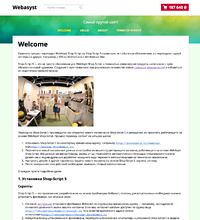
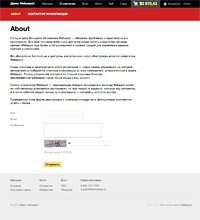
site theme Default 3.0

diff --git a/wa-apps/site/themes/default/default.css b/wa-apps/site/themes/default/default.css
@@ -103,7 +103,7 @@ input:-ms-input-placeholder { color: #bbb; }
 .welcome { text-align: center; background: url('img/welcome.png') no-repeat; background-position: top center; padding-top: 300px; background-size: 256px 256px; margin-bottom: 30px; }
 .welcome h1 { font-weight: normal; font-size: 2em; }
 
-.staff { background: #eeb; padding: 1px 4px !important; color: #345; font-size: 0.9em; border: 1px solid rgba(0,0,0,0.1); border-radius: 3px; }
+.staff { background: #eeb; padding: 1px 4px !important; color: #345; font-size: 0.9em; border: 1px solid rgba(0,0,0,0.1); border-radius: 3px; white-space: nowrap; }
 
 /* Buttons
 ---------- */
@@ -141,20 +141,9 @@ ul.menu-v.bottom-padded { margin-bottom: 20px; }
 ul.menu-v li .count { float: right; color: #aaa; }
 ul.menu-v li .count i.icon16 { margin: 0 -5px; }
 
-/*
 ul.menu-h { margin: 0; padding: 0; }
-ul.menu-h.bottom-padded { margin-bottom: 15px; }
 ul.menu-h li { list-style: none; display: inline-block; padding: 0 10px 0 0; line-height: 1.3em; display:block\9; float:left\9; }
 ul.menu-h li a { display: inline-block; padding: 13px 16px 13px 16px; display:block\9; float:left\9; text-decoration: none; }
-ul.menu-h li.collapsible a { padding: 13px 30px 13px 16px; }
-ul.menu-h li a img.icon16 { position: relative; top: 3px; left: -3px; }
-ul.menu-h li a i.icon16 { margin-top: -0.1em; }
-ul.menu-h li.selected a { background: transparent; }
-ul.menu-h li.bold a { font-weight: bold; }
-ul.menu-h.compact { margin-bottom: 16px; }
-ul.menu-h.compact li { padding-right: 5px; }
-ul.menu-h.compact li a { padding: 0; }
-*/
 
 ul.tree { list-style: none; padding-left: 0; }
 ul.tree li { border: none; }
@@ -164,6 +153,7 @@ ul.tree ul { padding-left: 20px; list-style: none; }
 ul.tree ul a { padding: 3px 6px; font-size: 90%; }
 
 .paging-nav { text-align: center; }
+.paging-nav ul li { display: inline-block; list-style: none; margin-right: 10px; }
 .paging-nav ul li a { padding: 8px 10px; }
 .paging-nav ul li.selected a { background: #eee; }
 
@@ -248,7 +238,7 @@ input.error, textarea.error { border: 2px solid red; }
 
 table { border-collapse: collapse; border-spacing: 0; }
 table th { color: #aaa; padding: 0px 10px 7px; }
-table td { padding: 10px; border: 1px solid rgba(0,0,0,0.15); }
+table td { padding: 10px; border: 1px solid rgba(0,0,0,0.1); }
 table.not-bordered td { border: none; }
 
 table.lined { margin-top: 25px; width: 100%; border-spacing:0; border-collapse:collapse; }
@@ -287,26 +277,26 @@ header.globalheader { background: #c22; position: relative; }
 header a { text-decoration: none; }
 
 header #globalnav { background: #000; }
-header h2 { float: left; padding: 13px 15px; margin: 0 20px 0 -15px; font-size: 1.1em; color: #777; }
+header h2 { float: left; padding: 11px 15px; margin: 0 20px 0 -15px; font-size: 1.2em; }
 header h2 a { color: #eee !important; }
 header h2 a:hover { color: #eea !important; }
 
 header .apps { float: left; padding: 0; margin: 0 0 0 -15px; }
 header .apps li { float: left; list-style: none; }
-header .apps li a { display: block; padding: 13px 18px; margin-right: 0px; color: #999; font-size: 1.1em; }
+header .apps li a { display: block; padding: 13px 18px 12px; margin-right: 0px; color: #999; font-size: 1.1em; }
 header .apps li a:hover { color: #eea; }
 header .apps li.selected a { color: #fff; background: #000; }
 
-header .auth { float: right; margin-bottom: 0; margin-top: 13px; padding-left: 10px; }
+header .auth { float: right; margin-bottom: 0; margin-top: 14px; padding-left: 10px; }
 header .auth li { list-style: none; float: left; }
 header .auth li a { font-style: italic; font-size: 0.9em; padding: 5px 8px; color: #777; }
 header .auth li a:hover { color: #eea !important; }
 header .auth li a:visited { color: #777; }
 
 header .cart { float: right; }
-header .cart a { padding: 13px 16px 13px 13px; display: block; background: #fb0; color: #fff; font-size: 1.5em; }
-header .cart a strong { color: #fff; }
-header .cart a:hover { background: #fc3 !important; }
+header .cart a { padding: 13px 16px 12px 13px; display: block; background: #444; color: #fff; font-size: 1.5em; }
+header .cart a strong { color: #ff7; }
+header .cart a:hover { background: #555 !important; }
 header .cart .cart-just-added { display: none; padding: 9px 18px; font-size: 0.9em; }
 header .cart a.cart-to-checkout { display: none !important; text-align: center; font-weight: bold; padding: 11px 18px; color: #006bd8; font-size: 1.1em; }
 header .cart a.cart-to-checkout:hover { background: #fff !important; }
@@ -320,12 +310,27 @@ header .cart.empty a strong { color: #aaa; }
 header .cart.empty i.cart-icon { background-position: -192px -50px; }
 
 header .cart.fixed { position: fixed; top: 0; right: 80px; min-width: 220px; max-width: 320px; z-index: 999; padding: 0; }
-header .cart.fixed a { text-align: center; border-top: none; }
+header .cart.fixed a { text-align: center; border-top: none; background: #c22; }
+header .cart.fixed a:hover { background: #d33 !important; }
 header .cart.fixed .cart-just-added { display: block; background: #fafaf1; }
 header .cart.fixed a.cart-to-checkout { display: block; border: none; background: #fff; box-shadow: 0 5px 10px -6px rgba(0, 0, 0, 0.2); }
 header .cart.fixed a.cart-to-checkout:hover { color: red !important; }
 
 header #mobile-nav-toggle { /* mobile only */ display: none; background: url('img/mobile-nav-toggle.png') no-repeat center center; border: none; padding: 5px; background-size: 37px 31px; width: 37px; height: 31px; }
+
+header #globalnav.light { background: #fff; }
+header #globalnav.light h2 a { color: #000 !important; }
+header #globalnav.light h2 a:hover { color: red !important; }
+header #globalnav.light .apps li a { color: #888; }
+header #globalnav.light .apps li a:hover { color: red !important; }
+header #globalnav.light .apps li.selected a { color: #444; background: transparent; }
+header #globalnav.light .auth li a:hover { color: red !important; }
+header #globalnav.light .cart a { background: #e84; }
+header #globalnav.light .cart a:hover { background: #f94 !important; }
+header #globalnav.light .cart a strong { color: #fff; }
+header #globalnav.light .cart.empty a { background: #eee !important; }
+header #globalnav.light .cart.empty a:hover { background: #e7e7e7 !important; }
+header #globalnav.light .cart.empty a strong { color: #aaa !important; }
 
 /* Header: app navigation
 ------------------------- */
@@ -349,11 +354,11 @@ header ul.flyout-nav li .flyout a { color: inherit; text-transform: none; }
 header ul.flyout-nav li .flyout a:hover { color: red !important; }
 header ul.flyout-nav li .flyout ul.menu-v li { border: none; vertical-align: top; text-align: left; margin: 0 20px 20px 0; }
 header ul.flyout-nav li .flyout ul.menu-v li.collapsible { background: none; }
-header ul.flyout-nav li .flyout ul.menu-v li a { font-weight: bold; padding-left: 0; font-size: 1em; }
+header ul.flyout-nav li .flyout ul.menu-v li a { font-weight: bold; padding-left: 0; font-size: 1.1em; }
 header ul.flyout-nav li .flyout ul.menu-v li ul.menu-v li { display: block; margin: 0; font-size: 0.9em; }
 header ul.flyout-nav li .flyout ul.menu-v li ul.menu-v li a { font-weight: normal; }
 header ul.flyout-nav li .flyout ul.menu-v li ul.menu-v li ul { display: none; }
-header ul.flyout-nav li .flyout .departments ul.menu-v li { width: 200px; }
+header ul.flyout-nav li .flyout .departments ul.menu-v li { width: 173px; }
 header ul.flyout-nav li .flyout .tags { font-size: 120%; }
 header ul.flyout-nav li .flyout ul.menu-v.brands { text-align: center; }
 header ul.flyout-nav li .flyout ul.menu-v.brands a { font-size: 1.2em; font-weight: normal; }
@@ -390,7 +395,8 @@ footer a:hover { color: red !important; }
 .globalfooter.submenu-is-shown { position: relative; }
 .globalfooter.submenu-is-shown:after { display: block; content: ""; position: absolute; top: 0; left: 0; width: 100%; height: 100%; background: rgba(0,0,0,.25); z-index: 99; }
 
-.footer-block { display: inline-block; margin-right: 40px; vertical-align: top; margin-bottom: 20px; overflow-x: hidden; display:block\9; float:left\9; }
+.footer-block { display: inline-block; margin-right: 40px; vertical-align: top; margin-bottom: 20px; overflow-x: hidden; display:block\9; float:left\9; max-width: 170px; }
+.footer-block.mailer-subscribe { max-width: 500px; }
 .footer-block a { display: block; padding: 1px 0; }
 .footer-block a.top { font-weight: bold; margin-bottom: 10px; color: #888; }
 

diff --git a/wa-apps/site/themes/default/index.html b/wa-apps/site/themes/default/index.html
@@ -35,7 +35,6 @@
     <script type="text/javascript" src="{$wa_static_url}wa-content/js/jquery/jquery-1.11.1.min.js" ></script>
     <script type="text/javascript" src="{$wa_static_url}wa-content/js/jquery/jquery-migrate-1.2.1.min.js"></script>
     <script type="text/javascript" src="{$wa_theme_url}default.js?v{$wa_theme_version}"></script>
-    <script type="text/javascript" src="{$wa_theme_url}waslidemenu/jquery.waslidemenu.min.js?v{$wa_theme_version}"></script>
 
     {$wa->js()} {* links active plugins JS *}
     
@@ -59,12 +58,12 @@
     
 </head>
 <body>
-    <header class="globalheader">
+    <header class="globalheader"{if $theme_settings.color_custom} style="background: {$theme_settings.color_custom}"{/if}>
     
         {if count($wa->apps())>0 || $wa->isAuthEnabled()}
         
             <!-- GLOBAL NAVIGATION -->
-            <div id="globalnav">
+            <div id="globalnav"{if $theme_settings.header_scheme|strstr:'white'} class="light"{/if}>
                 <div class="container">
                     
                     <h2>
@@ -80,7 +79,9 @@
                         <!-- core site sections (apps) -->
                         <ul class="apps">
                             {foreach $wa->apps() as $a}
-                                <li{if $a.url==$wa_app_url && !$wa->globals('isMyAccount')} class="selected"{/if}><a href="{$a.url}">{$a.name}</a></li>
+                                {if !($a.url == $wa_url && $a.name == $wa->accountName())}
+                                    <li{if $a.url==$wa_app_url && !$wa->globals('isMyAccount')} class="selected"{/if}><a href="{$a.url}">{$a.name}</a></li>
+                                {/if}
                             {/foreach}
                         </ul>
             
@@ -199,20 +200,18 @@
                     <a href="mailto:{$wa->shop->settings('email')}">{$wa->shop->settings('email')}</a>
                 {/if}
             </div>
-                  
-            <div class="footer-block">
-                {if $wa->mailer && $wa->getUrl('mailer/frontend/subscribe')}
-                    <div class="mailer-subscribe">
-                        <a href="#" class="top">[s`Follow us`]</a>
-                        <form action="{$wa->getUrl('mailer/frontend/subscribe')}" id="mailer-subscribe-form" target="mailer-subscribe-iframe">
-                            <input type="email" name="email" placeholder="your@email.here">
-                            <input type="submit" value="[s`Subscribe`]">
-                        </form>
-                        <iframe id="mailer-subscribe-iframe" name="mailer-subscribe-iframe" src="javascript:true" style="width:0;height:0;border:0px solid #666;float:right;background: #666;"></iframe>
-                        <p style="display:none" id="mailer-subscribe-thankyou"><i>[s`Thank you! We’ll keep you posted.`]</i></p>
-                    </div>
-                {/if}
+                
+            {if $wa->mailer && $wa->getUrl('mailer/frontend/subscribe')}  
+            <div class="footer-block mailer-subscribe">
+                <a href="#" class="top">[s`Follow us`]</a>
+                <form action="{$wa->getUrl('mailer/frontend/subscribe')}" id="mailer-subscribe-form" target="mailer-subscribe-iframe">
+                    <input type="email" name="email" placeholder="your@email.here">
+                    <input type="submit" value="[s`Subscribe`]">
+                </form>
+                <iframe id="mailer-subscribe-iframe" name="mailer-subscribe-iframe" src="javascript:true" style="width:0;height:0;border:0px solid #666;float:right;background: #666;"></iframe>
+                <p style="display:none" id="mailer-subscribe-thankyou"><i>[s`Thank you! We’ll keep you posted.`]</i></p>
             </div>
+            {/if}
             
             <div class="clear-both"></div>
             

diff --git a/wa-apps/site/themes/default/admin-sidebar.html b/wa-apps/site/themes/default/admin-sidebar.html
@@ -12,18 +12,18 @@
 {$plugin = $wa->param('plugin')}
 {$quick_links = []}
 {if empty($plugin)}
-    {if $app == 'shop' && $action == 'category'}
+    {if $app == 'shop' && $action == 'category' && !empty($category)}
         {$quick_links[] = [
             "name" => "[s`Edit`]",
             "href" => "{$wa_backend_url}shop/?action=products#/products/category_id={$category.id}"
         ]}
-    {elseif $app == 'shop' && $action == 'product'}
+    {elseif $app == 'shop' && $action == 'product' && !empty($product)}
         {$quick_links[] = [
             "name" => "[s`Edit`]",
             "href" => "{$wa_backend_url}shop/?action=products#/product/{$product.id}/edit/"
         ]}
 
-    {elseif $app == 'blog' && $action == 'post'}
+    {elseif $app == 'blog' && $action == 'post' && !empty($post)}
         {$quick_links[] = [
             "name" => "[s`Edit`]",
             "href" => "{$wa_backend_url}blog/?module=post&id={$post.id}&action=edit"
@@ -31,9 +31,9 @@
 
     {elseif $action == 'page'}
         {$href = false}
-        {if $app == 'shop'}
+        {if $app == 'shop' && !empty($page)}
             {$href = "{$wa_backend_url}{$app}/?action=storefronts#/pages/{$page.id}"}
-        {elseif $app == 'blog'}
+        {elseif $app == 'blog' && !empty($page)}
             {$href = "{$wa_backend_url}{$app}/?module=pages#/{$page.id}"}
         {/if}
         {if $href}
@@ -149,7 +149,7 @@
         padding: 0 7px;
         opacity: 0;
         overflow: hidden;
-        background: #444;
+        background: rgba(42,42,42,0.6);
         color: #999;
     }
     .s-live-setting-wrapper .s-live-setting-block .theme-settings-wrapper .group-wrapper .settings-list .set-item {

diff --git a/wa-apps/site/themes/default/default.js b/wa-apps/site/themes/default/default.js
@@ -171,20 +171,20 @@ $(document).ready(function() {
     // STICKY CART for non-mobile
     if ( !(MatchMedia("only screen and (max-width: 760px)")) ) {
         $(window).scroll(function(){
-           	if ( $(this).scrollTop() >= 110 && !$("#cart").hasClass( "fixed" ) && !$("#cart").hasClass( "empty" ) && !($(".cart-summary-page")).length ) {
+           	if ( $(this).scrollTop() >= 55 && !$("#cart").hasClass( "fixed" ) && !$("#cart").hasClass( "empty" ) && !($(".cart-summary-page")).length ) {
            	    $("#cart").hide();
            	    
            	    $("#cart").addClass( "fixed" );       	    
            	    if ($('#cart-flyer').length)
            	    {
-           	        var _width = $('#cart-flyer').width()+50;
-           	        var _offset_right = $(window).width() - $('#cart-flyer').offset().left - _width;
+           	        var _width = $('#cart-flyer').width()+52;
+           	        var _offset_right = $(window).width() - $('#cart-flyer').offset().left - _width + 1;
            	        
            	        $("#cart").css({ "right": _offset_right+"px", "width": _width+"px" });
            	    }
            	    
            	    $("#cart").slideToggle(200);
-           	} else if ( $(this).scrollTop() < 100 && $("#cart").hasClass( "fixed" ) ) {
+           	} else if ( $(this).scrollTop() < 50 && $("#cart").hasClass( "fixed" ) ) {
     	        $("#cart").removeClass( "fixed" );
         	    $("#cart").css({ "width": "auto" });	   
         	}

diff --git a/wa-apps/site/themes/default/main.html b/wa-apps/site/themes/default/main.html
@@ -11,6 +11,7 @@
         {$content} {* see page.html *}
     </article>
 
+    {if !empty($action) && $action == 'page'}
     <div class="content">
     
         <!-- FOLLOW -->
@@ -38,5 +39,6 @@
         </aside>
         
     </div>
+    {/if}
 
 {/if}
